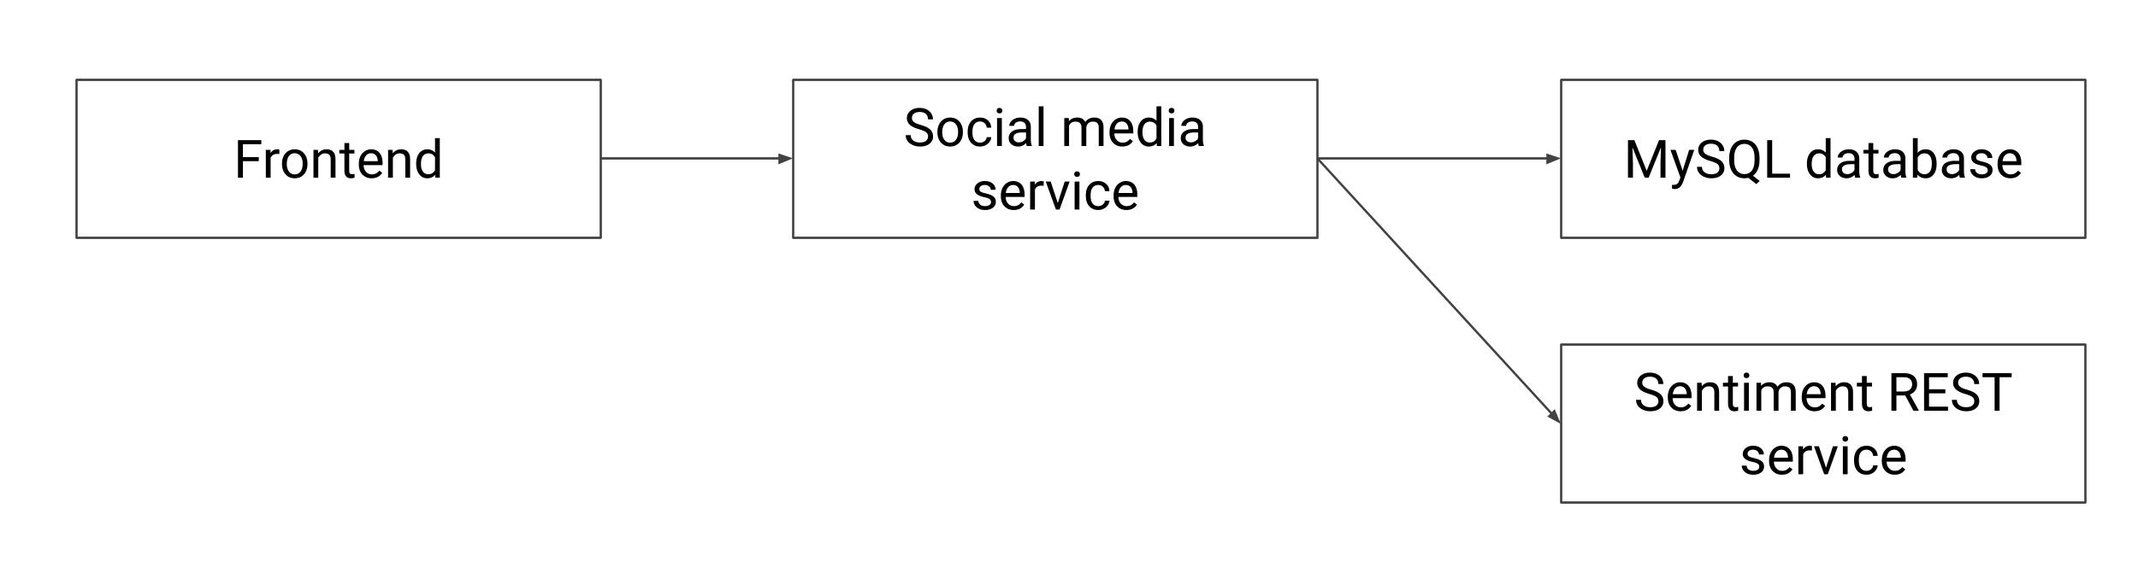
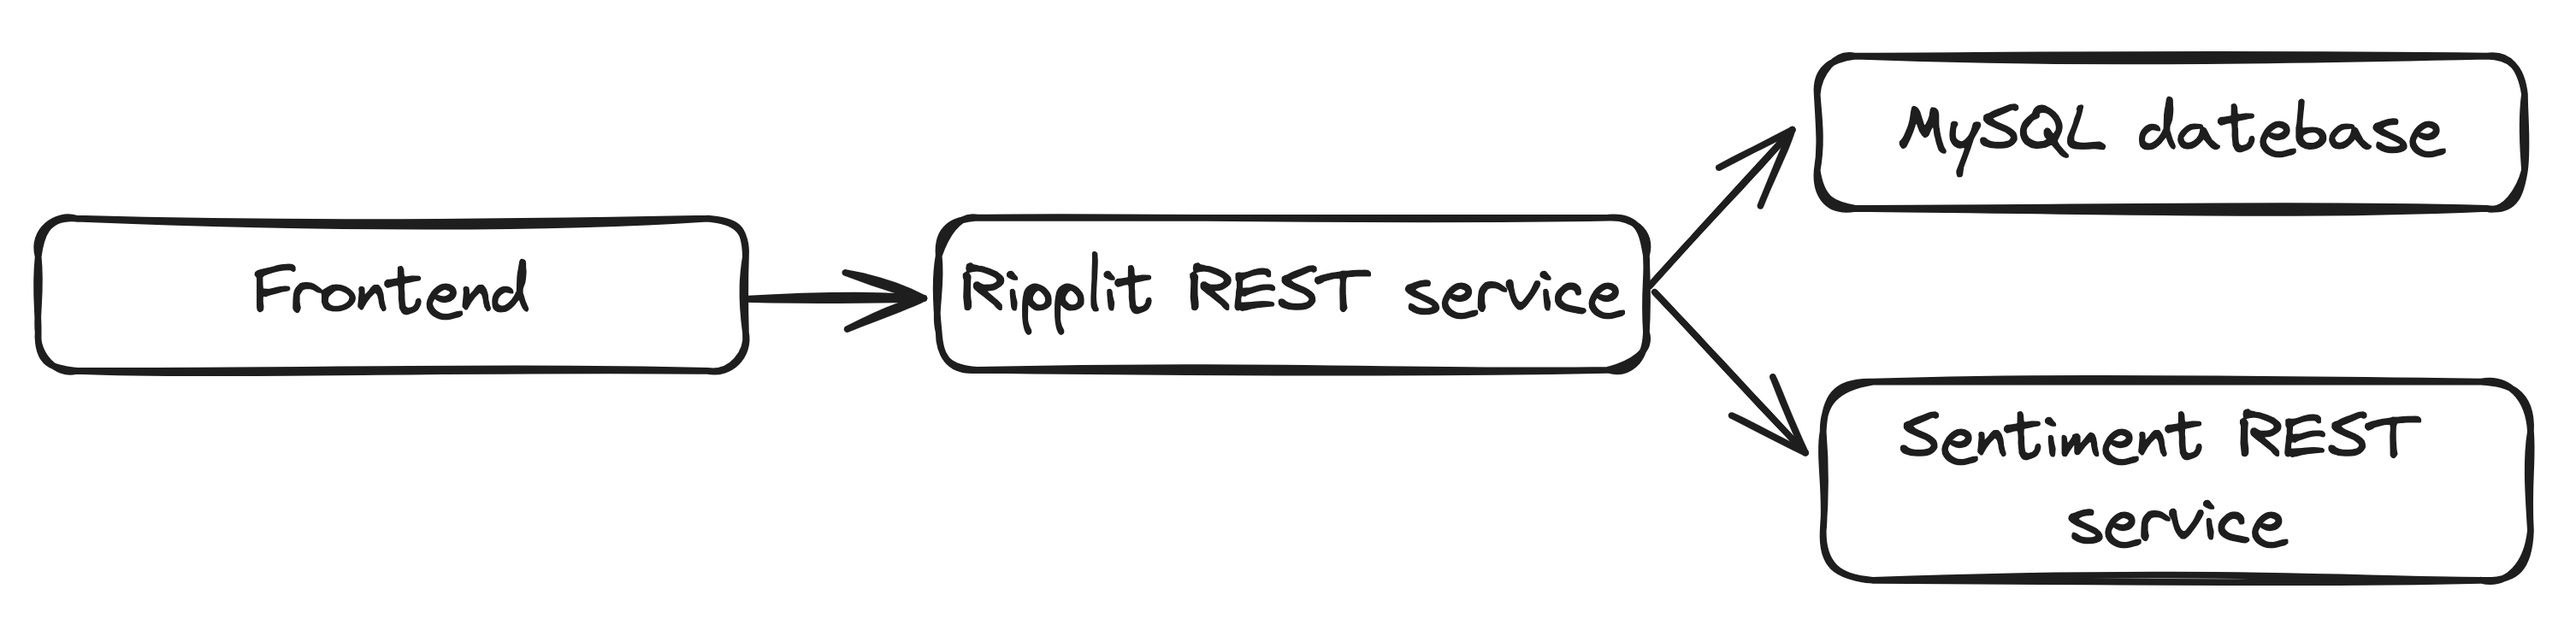
Add a better architecture diagram

diff --git a/ballerina/ripplit-social-media/README.md b/ballerina/ripplit-social-media/README.md
@@ -46,9 +46,9 @@ This demo serves as a complete walkthrough for anyone looking to explore Balleri
 
 ## Description
 
-The sample is based on a simple API written for a social media site (like Twitter) that includes users, associated posts, and followers. Below is the high-level component diagram.
+The sample is based on a simple API written for a social media site (like Twitter) that includes users, associated posts, and followers. Below is the high-level architecture diagram.
 
-<img src="./_resources/diagram.jpg" alt="drawing" width='500'/>
+<img src="./_resources/diagram.jpg" alt="drawing" width='700'/>
 
 As you can see in the image, this service connects two main endpoints: one is a MySQL endpoint, and the other is an HTTP endpoint. The following is the entity relationship diagram that describes the tables in the database.
 
